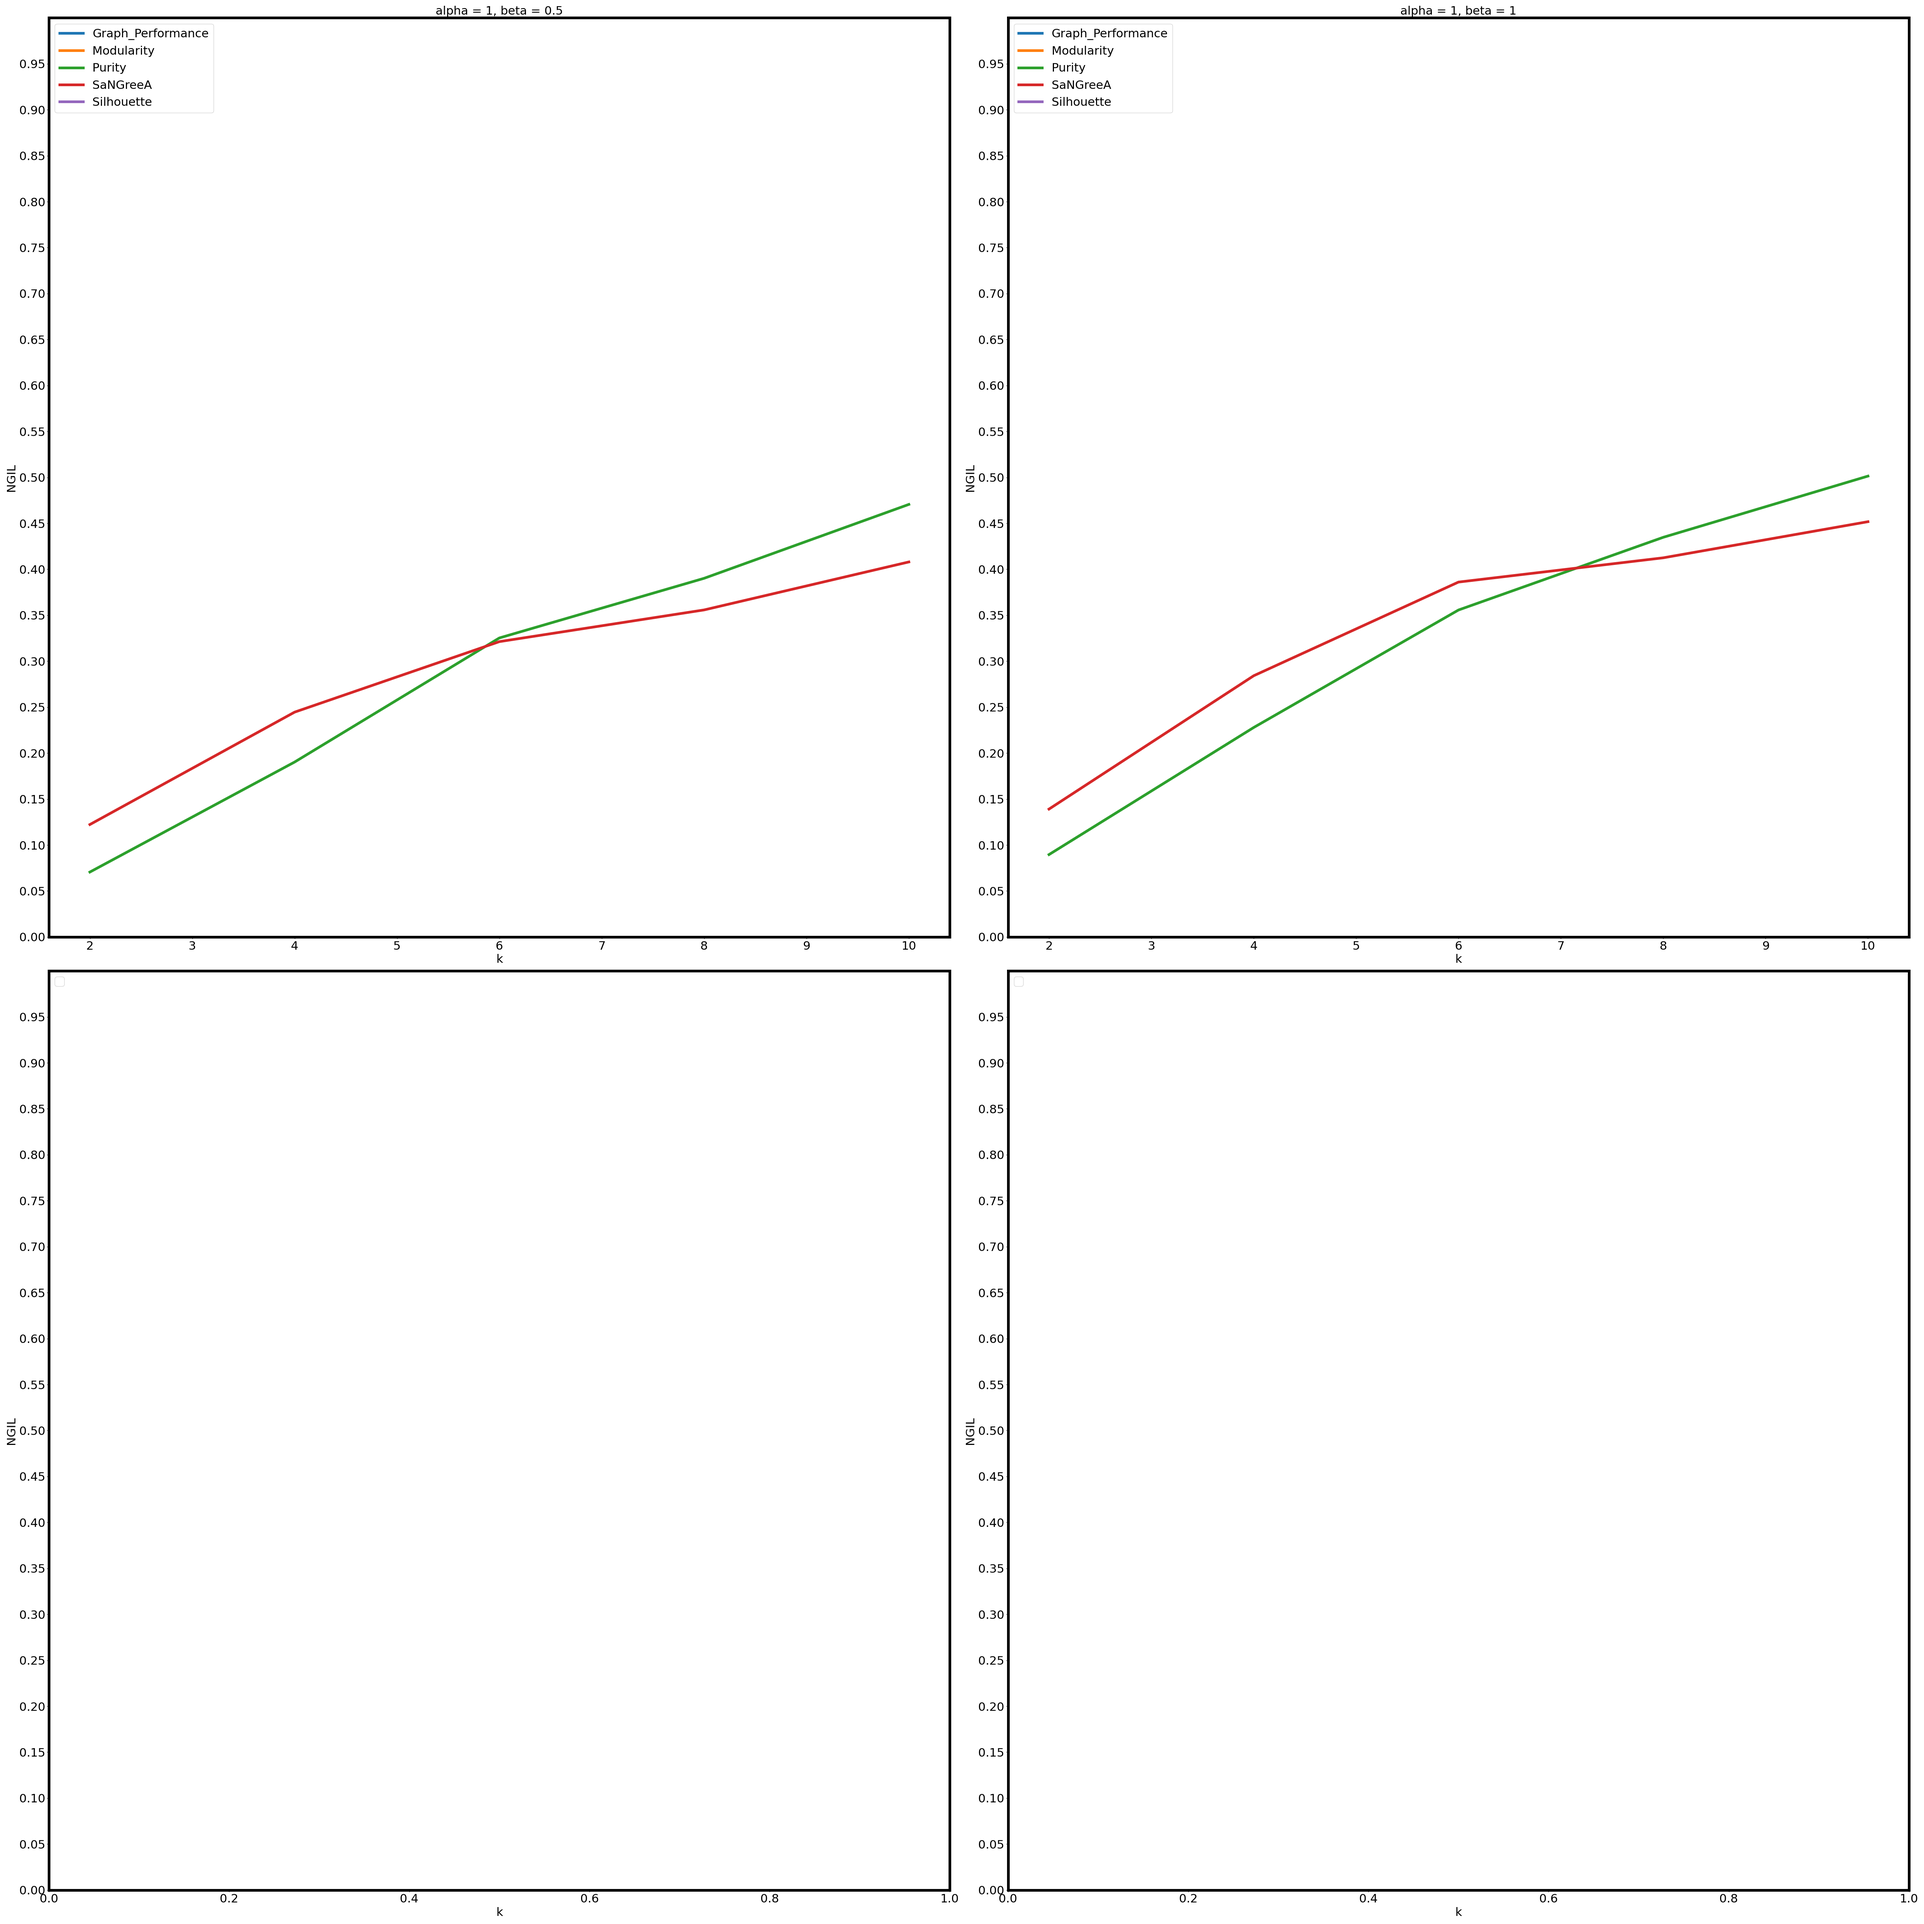
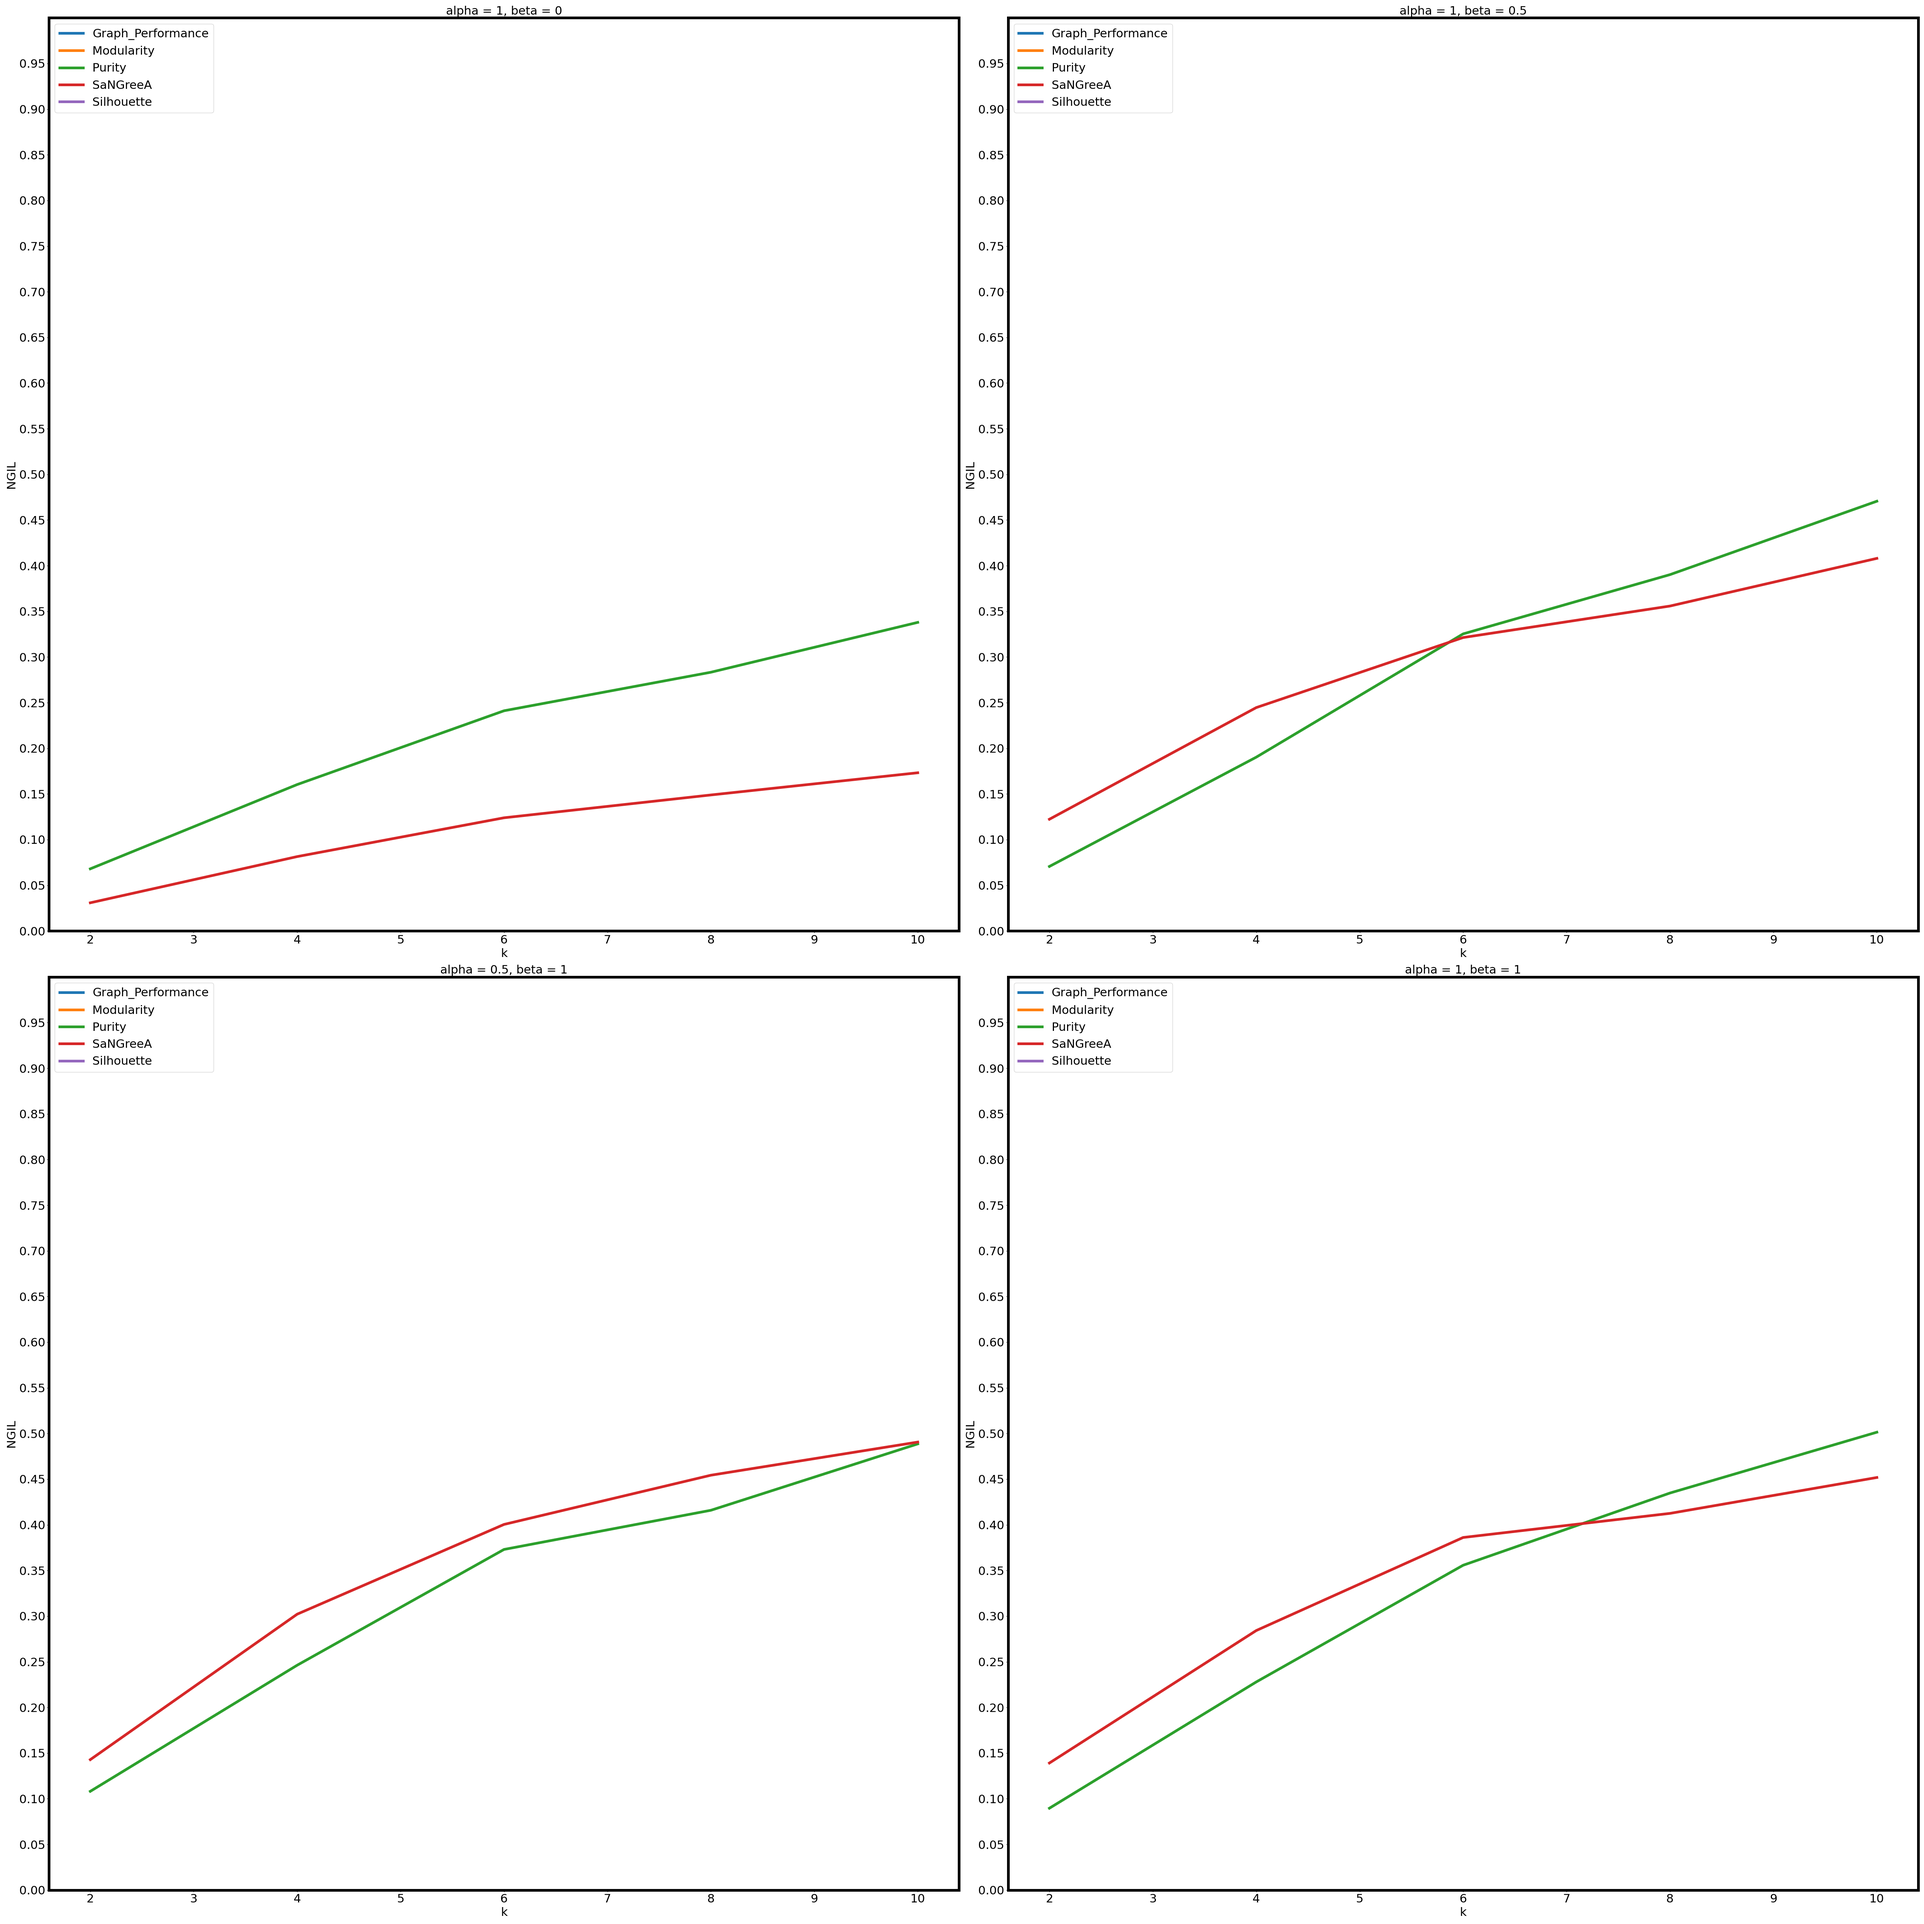
Update visualization

diff --git a/engines/visualizationEngine.py b/engines/visualizationEngine.py
@@ -66,10 +66,7 @@ class VisualizationEngine:
 
         fig, ax = plt.subplots(2, 2, figsize=(50, 50))
 
-        if size == 1000:
-            a_b_pairs = [(1, 0.5), (1, 1)]
-        else:
-            a_b_pairs = [(1, 0), (1, 0.5), (0.5, 1), (1, 1)]
+        a_b_pairs = [(1, 0), (1, 0.5), (0.5, 1), (1, 1)]
 
         for key, grp in frame.groupby(["method"]):
             col = 0
@@ -157,10 +154,8 @@ class VisualizationEngine:
 
     def __plotPerformance(self, y: str, y_label: str, excluded: [AnonymizationType] = None):
         frame = pd.read_csv(self.dataset.getResultsPath(), header=0)
-        # frame = frame[frame["size"] < 1000]
 
         fig, ax = plt.subplots(2, 3, figsize=(20, 40), sharey=True)
-        # frame = frame[frame["size"] < 1000]
 
         if excluded is not None:
             for type in excluded:
